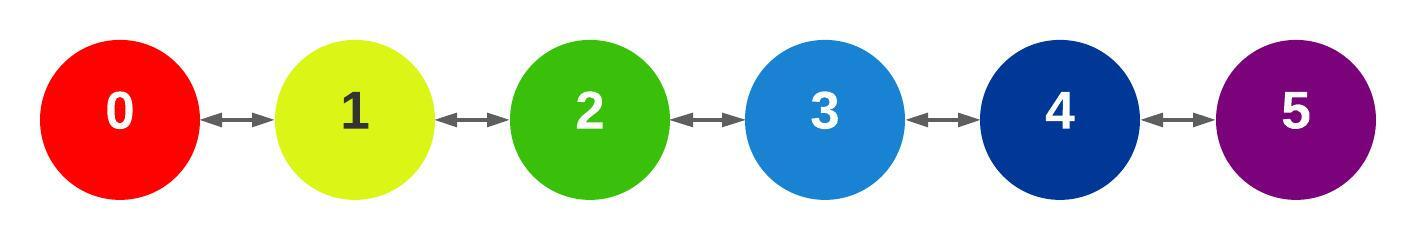
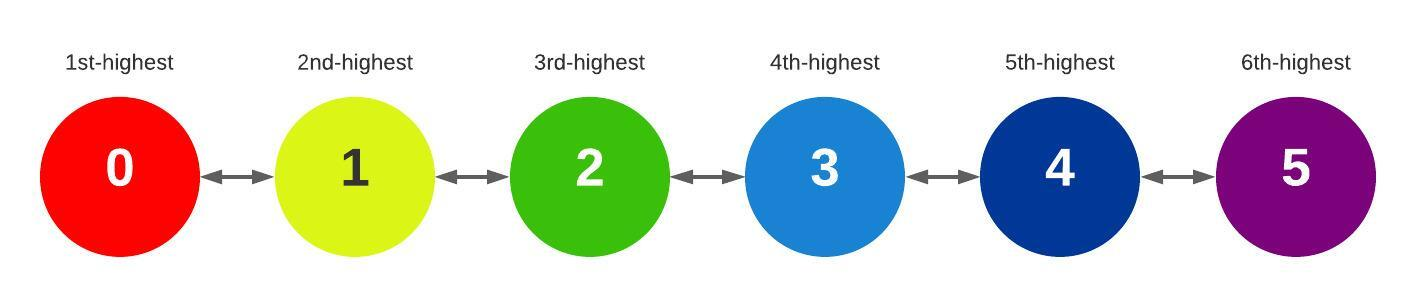
First complete project

Changed region(s): [[0.0, 0.1458, 0.9944, 0.875], [0.0, 0.5833, 0.0311, 0.6125]]

diff --git a/main.py b/main.py
@@ -1,0 +1,56 @@
+from WFC import wfc
+from helpers import img
+from helpers import map3d
+
+def main():
+    SAMPLE_ID: int = 6 # ID of the image, which serve also as filename.
+    
+    # WFC
+    ini_state: list = [0, 1, 2, 3, 4, 5]
+    N: int = 40
+    M: int = 40
+    adj_dic: dict = {0: [0, 1], 1: [0, 1, 2], 2: [1, 2, 3], 3: [2, 3, 4], 4: [3, 4, 5], 5: [4, 5]}
+    OFFS: list[tuple] = [(-1, -1), (0, -1), (1, -1), (-1, 0), (1, 0), (-1, 1), (0, 1), (1, 1)] # 8-adjacent | 4-adjacent its the dafault
+    neighbors_based: bool = False
+
+    grid: list[list[list[int]]] = wfc.WFC(
+            ini_state, N, M,
+            adj_dic,
+            # adj_offs=OFFS,
+            neighbors_based=neighbors_based)
+
+
+    # IMAGES
+    # TOPOGRAPHIC COLORS
+    COLORS: dict = {0: '#fd0200', 1: '#daf516', 2: '#3ac00a', 3: '#1a82d3', 4: '#013897', 5: '#7c027c'}
+    GREY_COLORS: dict = {0: '#ffffff', 1: '#cccccc', 2: '#999999', 3: '#666666', 4: '#333333', 5: '#000000'}
+    # w and h has to be multiple of N and M respectivelly.
+    w: int = 400 # width of the image.
+    h: int = 400 # height of the image.
+    name_grid: str = f'samples\{SAMPLE_ID}-grid.jpg'
+    name: str = f'samples\{SAMPLE_ID}.jpg'
+    name_grey: str = f'samples\{SAMPLE_ID}-hmap.jpg'
+    smooth: bool = True
+    show: bool = True
+
+    # Output images save in "samples" folder.
+    img.buildImage(grid, COLORS, '#000', w, h, name_grid, not smooth, show) # Color Topographic Map grid-patterned.
+    img.buildImage(grid, COLORS, '#000', w, h, name, smooth, not show) # Color Topographic Map.
+    img.buildImage(grid, GREY_COLORS, '#000', w, h, name_grey, smooth, show) # Grey-scale height Map.
+
+    
+    # 3D VISUALIZATION
+    scale: tuple = (9, 3, 9) # (x, y, z) | y = height
+    pos: map3d.Vec3 = (0, 2, 0) # Initial position (x, y, z)
+    # Uses EditorCamera, so movement its not available.
+    # To turn the camera, hold right-click and turn.
+    # You can modify the file at ".\helpers\map3d.py" to set FirstPerson view or any others Ursina's features.
+    hmap_path: str = f'\samples\{SAMPLE_ID}-hmap' # Path of the height-map.
+    texture_path: str = f'\samples\{SAMPLE_ID}'
+    
+    map3d.render(hmap_path, texture_path, scale, pos)
+
+
+if __name__ == '__main__':
+    main()
+

diff --git a/helpers/img.py b/helpers/img.py
@@ -1,0 +1,50 @@
+from PIL import Image
+
+OFFS = [(-1, -1), (0, -1), (1, -1), (-1, 0), (1, 0), (-1, 1), (0, 1), (1, 1)]
+
+def hexToRGB(hex: str) -> tuple:
+    hex = hex.lstrip('#')
+    rgb = tuple(int(hex[i:i+2], 16) for i in (0, 2, 4))
+    return rgb
+
+def getAvgColor(r: int, c: int) -> tuple:
+    color = list(hexToRGB(COLORS[GRID[r][c][0]]))
+    cnt: int = 1
+
+    for x, y in OFFS:
+        new_r, new_c = r + y, c + x
+        if min(new_r, new_c) < 0 or new_r >= N or new_c >= M:
+            continue
+
+        cell_rgb = list(hexToRGB(COLORS[GRID[new_r][new_c][0]]))
+        cnt += 1
+        for i in range(3):
+            color[i] += cell_rgb[i]
+    
+    for i in range(3):
+        color[i] //= cnt
+    
+    return tuple(color)
+
+def buildImage(grid: list[list[list[int]]], color_map: dict, bg_color: str, w: int, h: int, name: str, smooth: bool = False, show: bool = False) -> None:
+    # Global variables
+    global N, M, COLORS, GRID
+    N, M = len(grid), len(grid[0])
+    COLORS = color_map
+    GRID = grid
+
+    bg = Image.new('RGB', size=(w, h), color=bg_color)
+    cell_w, cell_h = w // M, h // N
+
+    for r in range(N):
+        for c in range(M):
+            x, y = c * cell_w, r * cell_h
+            color = getAvgColor(r, c) if smooth else COLORS[GRID[r][c][0]]
+            sub_img = Image.new('RGB', size=(cell_w, cell_h), color=color)
+            bg.paste(sub_img, box=(x, y))
+    
+    bg.save(name)
+    if show:
+        bg.show()
+
+

diff --git a/helpers/map3d.py b/helpers/map3d.py
@@ -1,0 +1,10 @@
+from ursina import *
+
+def render(hmap_path: str, texture_path: str, scale: tuple, pos: Vec3) -> None:
+    app = Ursina()
+    terrain = Terrain(heightmap=hmap_path, skip=4)
+    terrain_entity = Entity(model=terrain, scale=scale, texture=texture_path)
+
+    ec = EditorCamera()
+    ec.position = pos
+    app.run()

diff --git a/README.md b/README.md
@@ -1,25 +1,17 @@
 # WFC-Terrain-Generator-v2
 
-Procedural Terrain Generator using the Wave Function Collapse algorithm ([WFC implementation](https://github.com/JuanSoriaE/WFC)).
+Procedural Terrain Generator using the Wave Function Collapse Algorithm ([WFC implementation](https://github.com/JuanSoriaE/WFC)).
 
-## Topographic Terrain
+## Topographic Terrain (Introduction)
 
-The Wave Function Collapse algorithm allows us to generate procedural images based on initial rules that tell us which states can be adjacent of which other states.
-In the other hand we know that in the Color Topographic Map the points with the highest height, has as adjacent points the second highest height, and the second highest height points, has as adjacent points the 3th highest height points. Knowing that, the pattern is clear:
+The Wave Function Collapse Algorithm generate images based on given rules that determinate which states can be adjacent to which others states.
+The basic Color Topographic Map determines which heights are adjacent to which others, which serve as initial rules.
 
-| ID | Highest |
-| -- | ------- |
-| 0 | 1st |
-| 1 | 2nd |
-| 2 | 3rd |
-| 3 | 4th |
-| 4 | 5th |
-| 5 | 6th |
+The relations are the following:
 
-Considering the table above, the rules of the states and its adyacents will be the next.
 ![Diagram 1 Image](./assets/diagram1.jpeg)
 
-We can see that the middle states are connected with 2 adjacent states, and itself. And the edge states are connected just with one adjacent state and itself, so the Adjacent Dictionary will be the next:
+Translating this into an Adjacency Dictionary is:
 
 ```
 adj_dic = {0: [0, 1], 1: [0, 1, 2],
@@ -27,14 +19,15 @@ adj_dic = {0: [0, 1], 1: [0, 1, 2],
            4: [3, 4, 5], 5: [4, 5]}
 ```
 
-With the dictionary and the following parameters we will get the next image:
+With the `adj_dict` above and the following parameters we will get the next result:
 
 ### INPUT
 
 ```
 ini_state = [0, 1, 2, 3, 4, 5]
-n = 50
-m = 50
+n = 40
+m = 40
+adj_offs = [(0, -1), (1, 0), (0, 1), (-1, 0)]
 neighbors_based = False
 
 # Colors
@@ -44,16 +37,42 @@ color_map: dict = {0: '#fd0200', 1: '#daf516',
 ```
 
 ### OUTPUT
-If we convert the grid into a image, we will get a grid-patterned image, since the the number of states is too low. One way to fix this is to get the average color of every cell with its 8 adjacent cells.
+The limited number of states produces a grid-patterned output image. To enhance it, we can average the color of each cell with its 8-adjacent cells.
 
 | Direct Output | Averaging colors | 3D View |
 | ------------- | ---------------- | ------- |
-| ![Sample image 1 grid-patterned](./samples/sample1-grid.jpg) | ![Sample image 1 smooth](./samples/sample1.jpg) | ![Sample image 1 3d view](./samples/sample1-3d.jpg) |
+| ![Sample image 1 grid-patterned](./samples/1-grid.jpg) | ![Sample image 1 smooth](./samples/1.jpg) | ![Sample image 1 3d view](./samples/1-3d.jpg) |
 
-This image was with basic parameters, so here are some more examples.
+## Get Started
 
-#### EXAMPLES
+Make sure to have Python 3.6+ and pip installed.
 
-| Smooth Image | 3D View | Parameters |
+### STEPS
+1. Clone this repository.
+    ```
+    git clone https://github.com/JuanSoriaE/WFC-Terrain-Generator-v2.git
+    ```
+
+2. Once you are in the root path of the project, clone the repository of the WaveFunctionCollapsed module ([Link WFC module](https://github.com/JuanSoriaE/WFC)).
+
+3. Install the dependencies.
+    ```
+    pip install Pillow ursina numpy
+    ```
+
+4. Run the main.py file.
+    ```
+    python main.py
+    ```
+
+5. You can modify all the parameters from the main.py file.
+
+## EXAMPLES WITH CUSTOM PARAMETERS
+
+All the images below uses the same `color_map`.
+| Averaging colors Image | 3D View (Generated with GREY-SCALE Topographic Map image) | Parameters |
 | ------------ | ------- | ---------- |
-| ![Sample image 2 smooth](./samples/sample2.jpg) | ![Sample image 2 3d view](./samples/sample2-3d.jpg) | `ini_state = [0, 1, 2, 3, 4, 5]`<br>`n = 40, m = 40`<br>`adj_dic = {0: [0], 1: [0, 1, 2], 2: [1, 2, 3, 5], 3: [2, 3, 4, 5], 4: [3, 4, 5], 5: [4, 5]}`<br>`neighbors_based = True`<br> |
+| ![Samples image 2 smooth](./samples/2.jpg) | ![Samples image 2 3d view](./samples/2-3d.jpg) | `ini_state = [0, 1, 2, 3, 4, 5]`<br>`n = 40, m = 40`<br>`adj_dic = {0: [0, 1], 1: [0, 1, 2], 2: [0, 1, 2, 3, 5], 3: [2, 3, 4, 5], 4: [0, 3, 4, 5], 5: [4, 5]}`<br>`adj_offs = [(-1, -1), (0, -1), (1, -1), (-1, 0), (1, 0), (-1, 1), (0, 1), (1, 1)]`<br>`neighbors_based = True` |
+| ![Sample image 3 smooth](./samples/3.jpg) | ![Sample image 3 3d view](./samples/3-3d.jpg) | `ini_state = [0, 1, 2, 3, 4, 5]`<br>`n = 40, m = 40`<br>`adj_dic = {0: [0], 1: [0, 1, 2], 2: [1, 2, 3, 5], 3: [2, 3, 4, 5], 4: [3, 4, 5], 5: [4, 5]}`<br>`adj_offs = [(-1, -1), (0, -1), (1, -1), (-1, 0), (1, 0), (-1, 1), (0, 1), (1, 1)]`<br>`neighbors_based = True` |
+| ![Sample image 4 smooth](./samples/4.jpg) | ![Samples image 4 3d view](./samples/4-3d.jpg) | `ini_state = [0, 1, 2, 3, 4, 5]`<br>`n = 40, m = 40`<br>`adj_dic = {0: [0, 1], 1: [0, 1, 2], 2: [1, 2, 3], 3: [2, 3, 4], 4: [3, 4, 5], 5: [4, 5, 0]}`<br>`adj_offs = [(-1, -1), (0, -1), (1, -1), (-1, 0), (1, 0), (-1, 1), (0, 1), (1, 1)]`<br>`neighbors_based = True` |
+| ![Sample image 5 smooth](./samples/5.jpg) | ![Samples image 5 3d view](./samples/5-3d.jpg) | `ini_state = [0, 1, 2, 3, 4, 5]`<br>`n = 40, m = 40`<br>`adj_dic = {0: [0, 1], 1: [0, 1, 2], 2: [1, 2, 3, 5], 3: [2, 3, 4, 5], 4: [3, 4, 5], 5: [4, 5]}`<br>`adj_offs = [(-1, -1), (0, -1), (1, -1), (-1, 0), (1, 0), (-1, 1), (0, 1), (1, 1)]`<br>`neighbors_based = False` |
